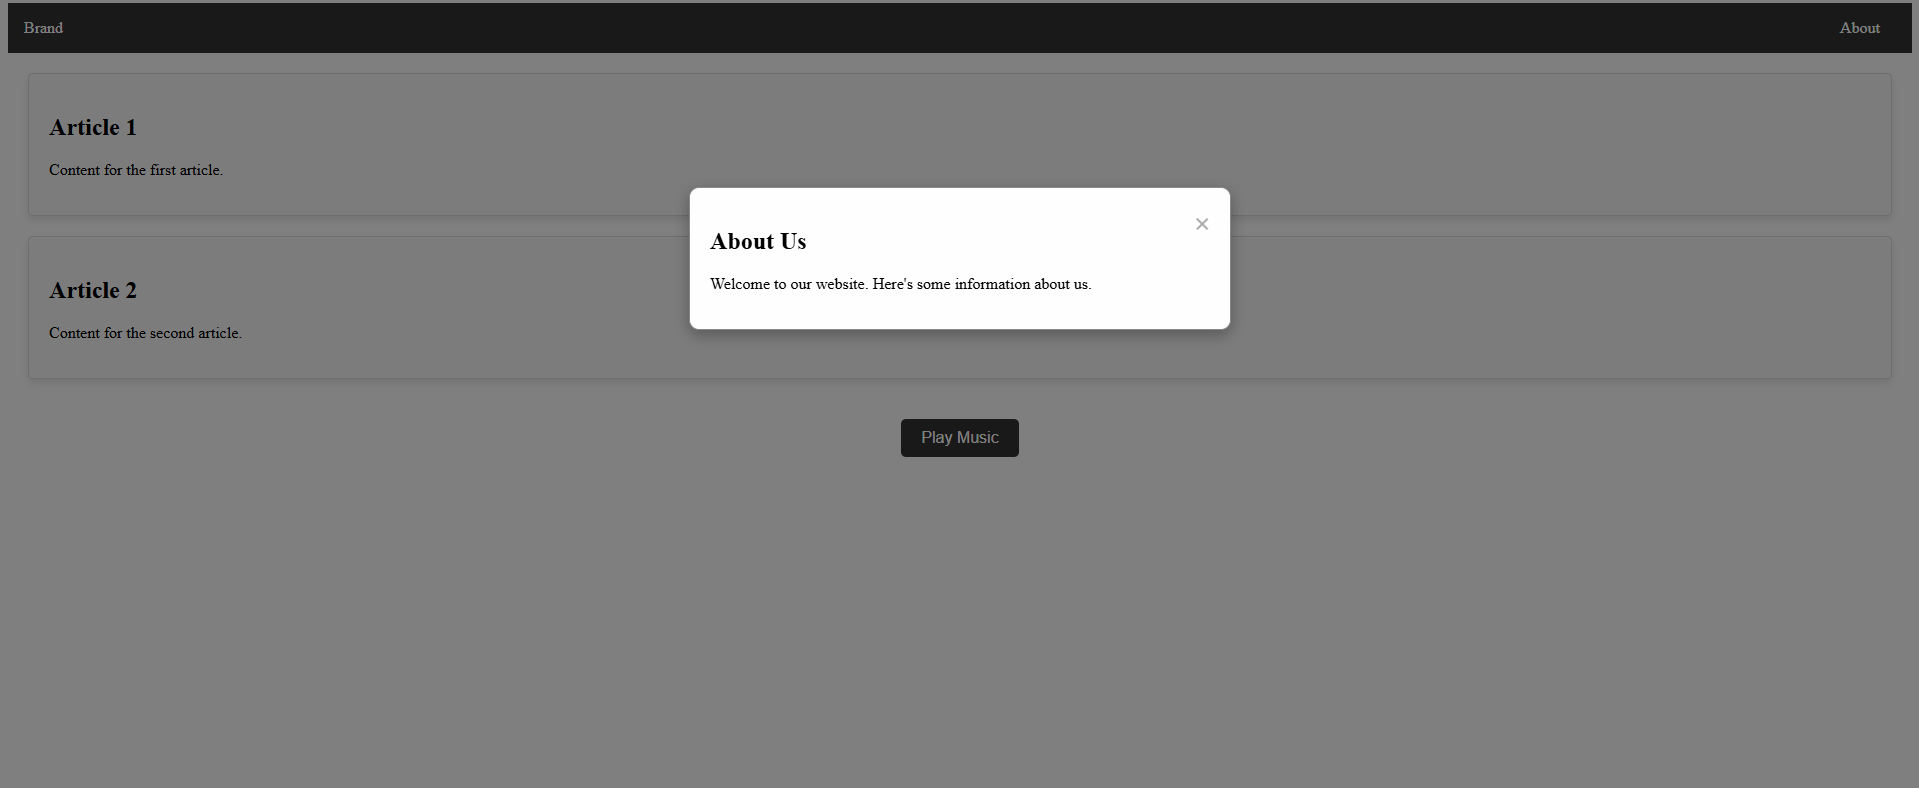
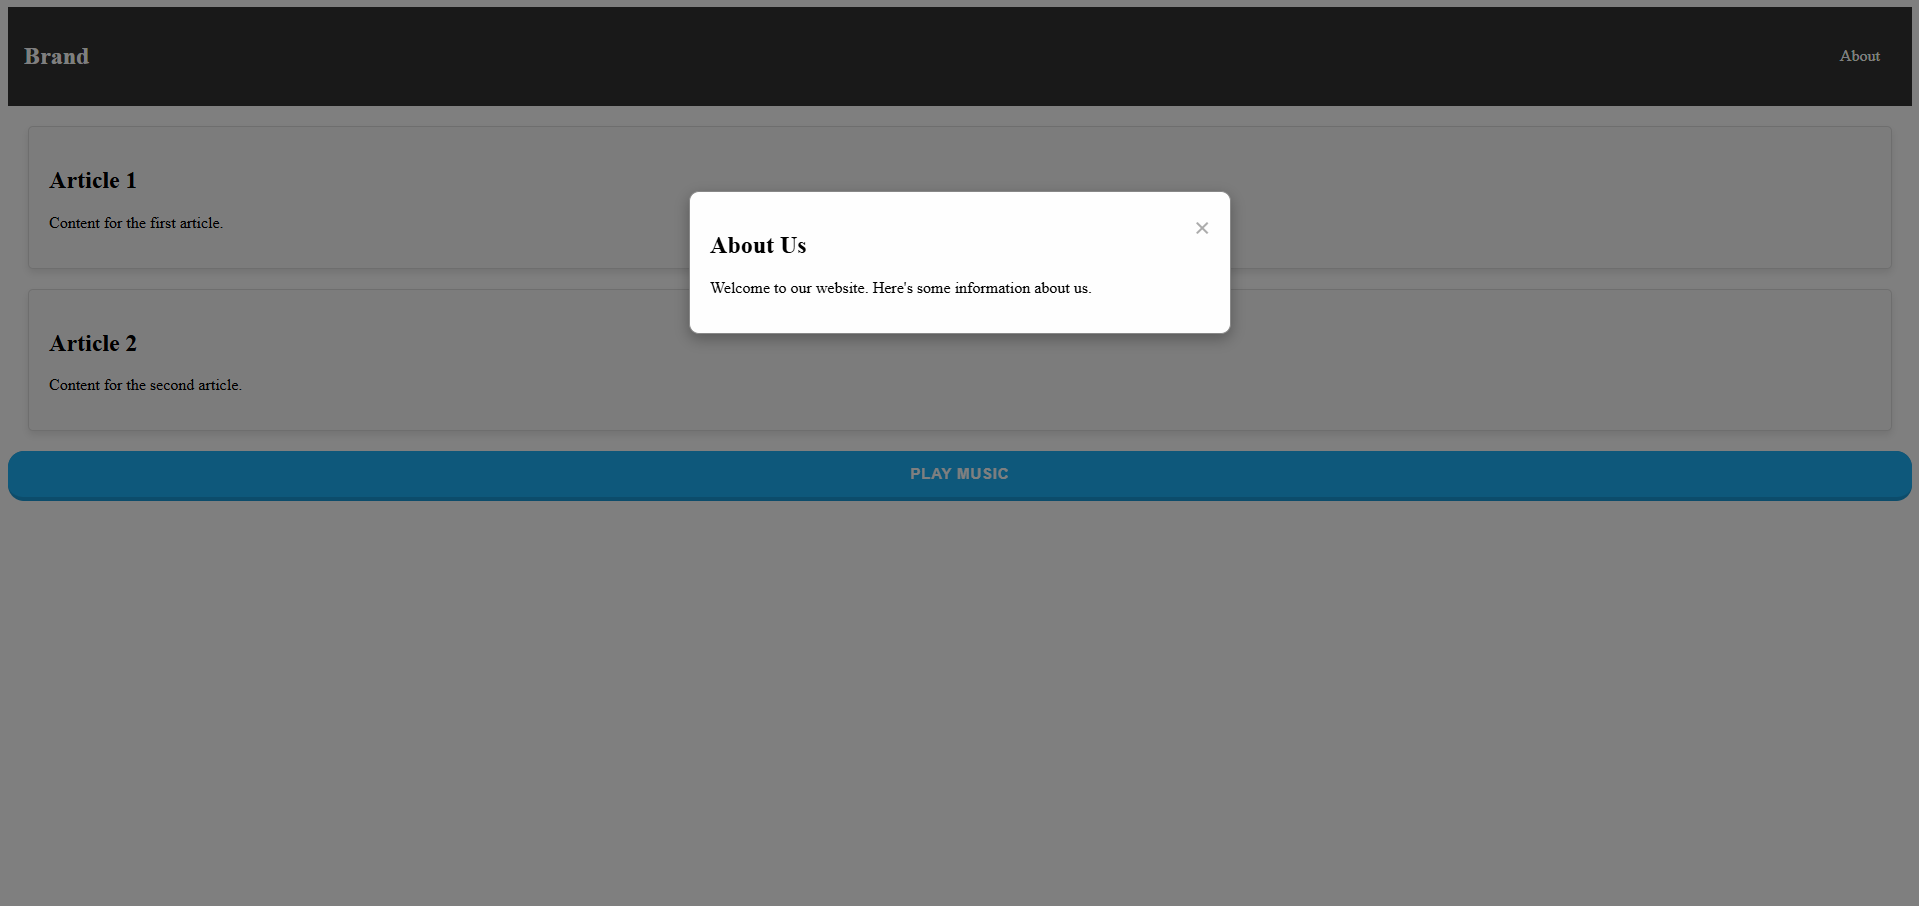
complete

diff --git a/style.css b/style.css
@@ -76,18 +76,68 @@
     }
 }
 
-#playMusicBtn {
-    display: block;
-    margin: 20px auto;
-    padding: 10px 20px;
-    font-size: 16px;
+#playbutton {
+    appearance: button;
+    background-color: #1899D6;
+    border: solid transparent;
+    border-radius: 16px;
+    border-width: 0 0 4px;
+    box-sizing: border-box;
+    color: #FFFFFF;
     cursor: pointer;
-    background-color: #333;
-    color: #fff;
-    border: none;
-    border-radius: 5px;
-    transition: background-color 0.3s;
-}
-#playMusicBtn:hover {
-    background-color: #555;
-}
+    display: inline-block;
+    font-family: din-round,sans-serif;
+    font-size: 15px;
+    font-weight: 700;
+    letter-spacing: .8px;
+    line-height: 20px;
+    margin: 0;
+    outline: none;
+    overflow: visible;
+    padding: 13px 16px;
+    text-align: center;
+    justify-content: center;
+    text-transform: uppercase;
+    touch-action: manipulation;
+    transform: translateZ(0);
+    transition: filter .2s;
+    user-select: none;
+    -webkit-user-select: none;
+    vertical-align: middle;
+    white-space: nowrap;
+    width: 100%;
+  }
+  
+  #playbutton:after {
+    background-clip: padding-box;
+    background-color: #1CB0F6;
+    border: solid transparent;
+    border-radius: 16px;
+    border-width: 0 0 4px;
+    bottom: -4px;
+    content: "";
+    left: 0;
+    position: absolute;
+    right: 0;
+    top: 0;
+    z-index: -1;
+  }
+  
+  #playbutton,
+  #playbutton:focus {
+    user-select: auto;
+  }
+  
+  #playbutton:hover:not(:disabled) {
+    filter: brightness(1.1);
+    -webkit-filter: brightness(1.1);
+  }
+  
+  #playbutton:disabled {
+    cursor: auto;
+  }
+  
+  #playbutton:active {
+    border-width: 4px 0 0;
+    background: none;
+  }

diff --git a/index.html b/index.html
@@ -10,13 +10,12 @@
 <body>
 
     <nav class="navbar">
-        <div class="navbar-brand">Brand</div>
+        <h1 class="navbar-brand">Brand</h1>
         <div>
             <a href="#" id="aboutLink">About</a>
 
         </div>
     </nav>
-
 
     <div id="aboutModal" class="modal">
         <div class="modal-content">
@@ -38,7 +37,7 @@
 
     </div>
 
-    <button id="playMusicBtn">Play Music</button>
+    <button id="playbutton">Play Music</button>
 
     <audio id="backgroundMusic" src="music.mp3"></audio>
 
@@ -62,7 +61,7 @@
             }
         }
 
-        const playMusicBtn = document.getElementById('playMusicBtn');
+        const playMusicBtn = document.getElementById('playbutton');
         const backgroundMusic = document.getElementById('backgroundMusic');
 
         playMusicBtn.onclick = function() {
